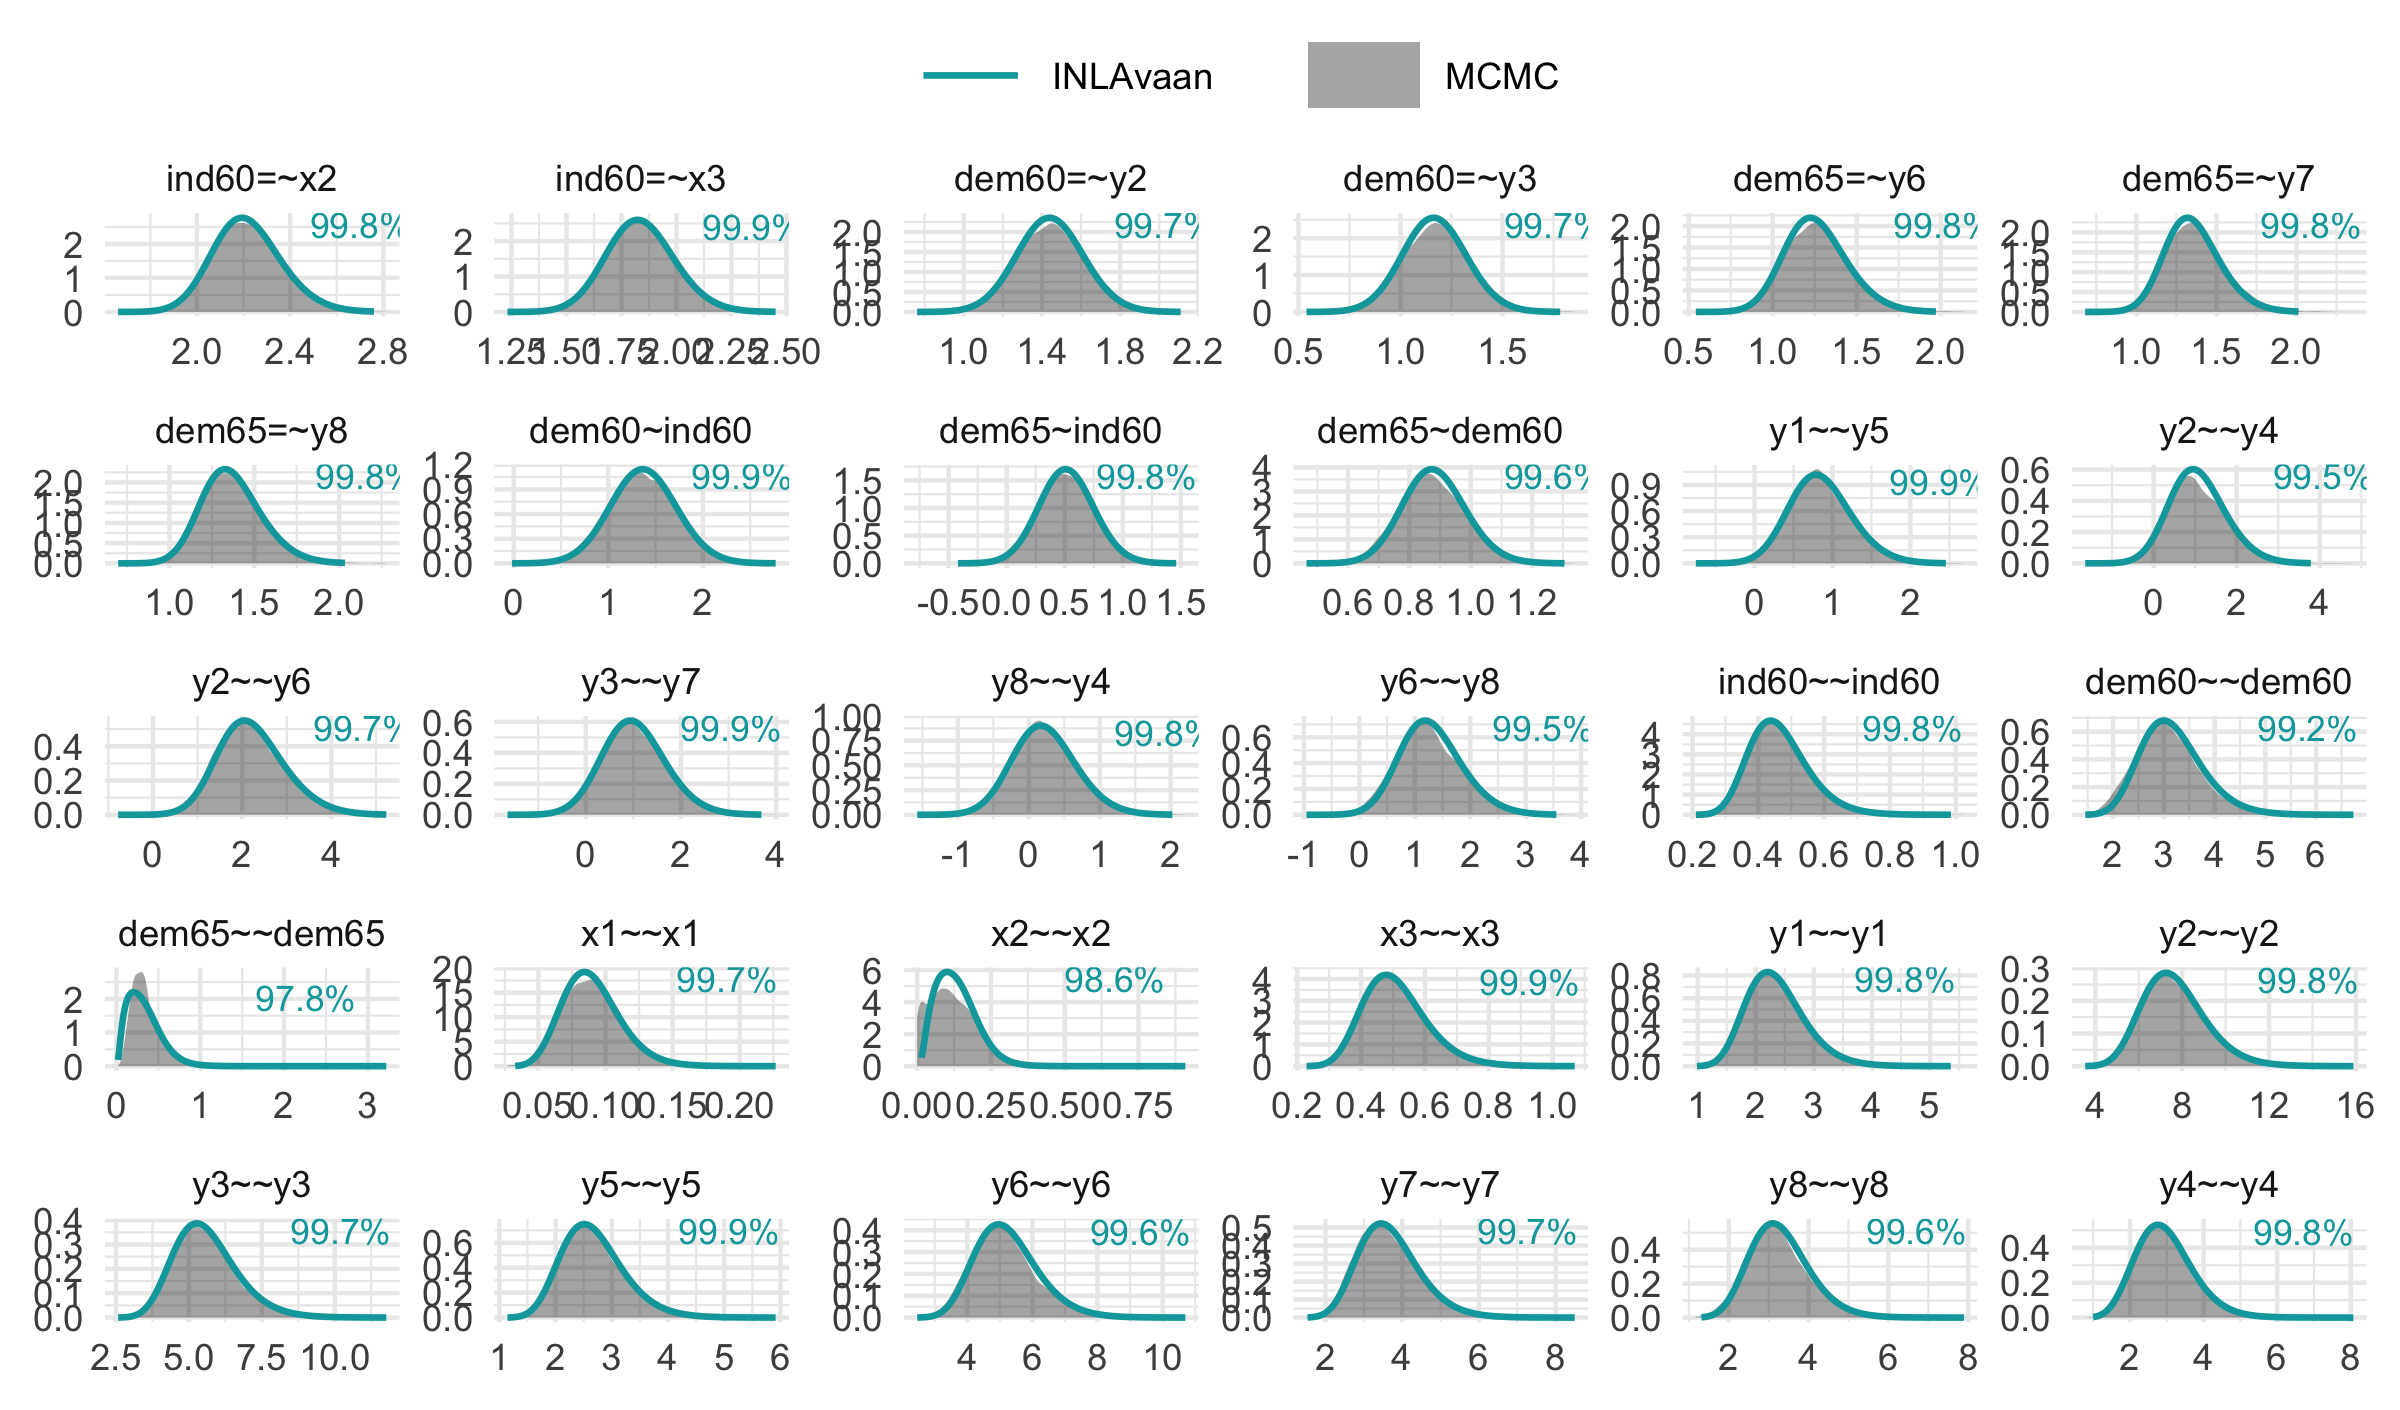
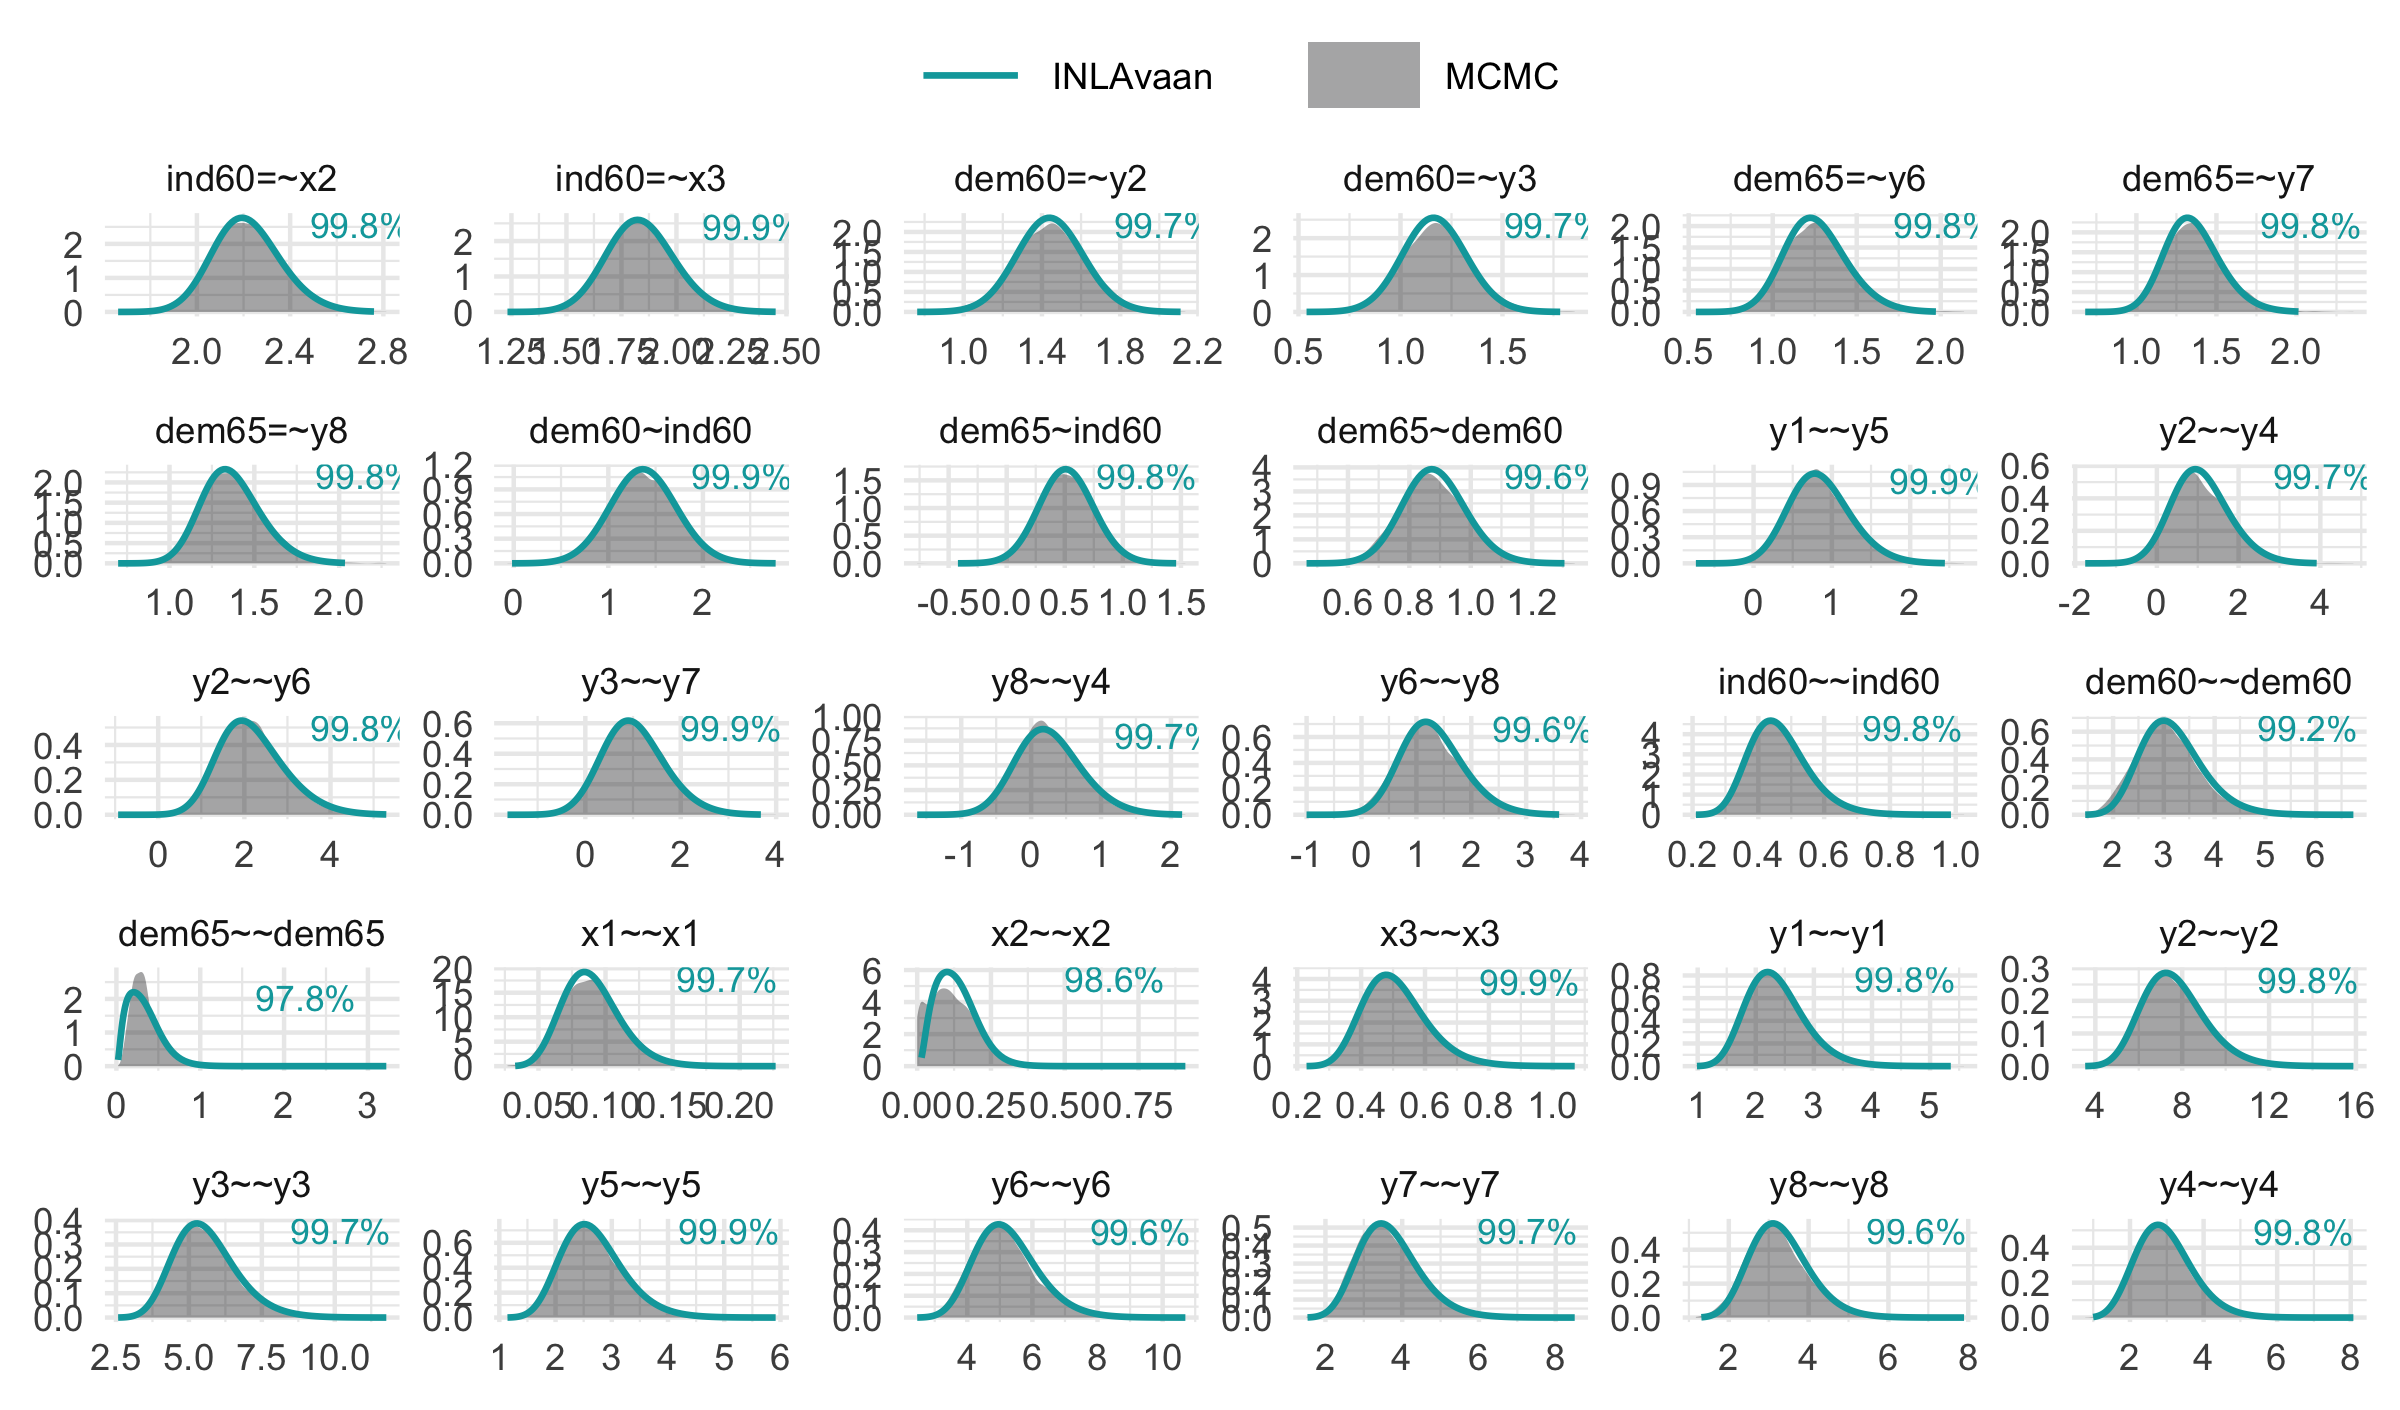
Update README

diff --git a/README.md b/README.md
@@ -74,21 +74,21 @@ utils::data("PoliticalDemocracy", package = "lavaan")
 
 fit <- asem(model = mod_poldem, data = PoliticalDemocracy)
 #> ℹ Mode finding and Hessian computation.
-#> ✔ Posterior mode and Hessian. [69ms]
+#> ✔ Posterior mode and Hessian. [79ms]
 #> 
 #> ℹ Performing VB correction.
-#> ✔ VB correction; mean |δ| = 0.154σ. [78ms]
+#> ✔ VB correction; mean |δ| = 0.154σ. [86ms]
 #> 
 #> ⠙ Fitting 0/30 skew-normal marginals.
-#> ✔ Fit 30/30 skew-normal marginals. [563ms]
+#> ✔ Fit 30/30 skew-normal marginals. [624ms]
 #> 
 #> ⠙ Posterior sampling and summarising.
-#> ✔ Summarise 1000 posterior draws. [297ms]
+#> ✔ Summarise 1000 posterior draws. [330ms]
 #> 
 #> ℹ Fit measures: PPP, DIC.
 
 summary(fit)
-#> INLAvaan 0.3.3 ended normally after 71 iterations
+#> INLAvaan 0.3.4 ended normally after 71 iterations
 #> 
 #>   Estimator                                      BAYES
 #>   Optimization method                           NLMINB
@@ -99,12 +99,12 @@ summary(fit)
 #> Model Test (User Model):
 #> 
 #>    Marginal log-likelihood                   -1644.364 
-#>    PPP (Chi-square)                              0.496 
+#>    PPP (Chi-square)                              0.479 
 #> 
 #> Information Criteria:
 #> 
-#>    Deviance (DIC)                             3173.511 
-#>    Effective parameters (pD)                    28.876 
+#>    Deviance (DIC)                             3173.529 
+#>    Effective parameters (pD)                    28.885 
 #> 
 #> Parameter Estimates:
 #> 
@@ -140,16 +140,16 @@ summary(fit)
 #> Covariances:
 #>                    Estimate       SD     2.5%    97.5%     NMAD    Prior       
 #>  .y1 ~~                                                                        
-#>    .y5                0.851    0.401    0.120    1.695    0.005       beta(1,1)
+#>    .y5                0.853    0.397    0.138    1.698    0.005       beta(1,1)
 #>  .y2 ~~                                                                        
-#>    .y4                1.068    0.679   -0.158    2.508    0.004       beta(1,1)
-#>    .y6                2.225    0.752    0.902    3.850    0.011       beta(1,1)
+#>    .y4                1.078    0.708   -0.190    2.590    0.004       beta(1,1)
+#>    .y6                2.182    0.778    0.864    3.905    0.011       beta(1,1)
 #>  .y3 ~~                                                                        
-#>    .y7                1.023    0.667   -0.207    2.413    0.005       beta(1,1)
+#>    .y7                1.024    0.664   -0.169    2.438    0.005       beta(1,1)
 #>  .y8 ~~                                                                        
-#>    .y4                0.224    0.450   -0.606    1.160    0.003       beta(1,1)
+#>    .y4                0.265    0.474   -0.582    1.278    0.003       beta(1,1)
 #>  .y6 ~~                                                                        
-#>    .y8                1.300    0.563    0.295    2.506    0.005       beta(1,1)
+#>    .y8                1.300    0.575    0.283    2.540    0.005       beta(1,1)
 #> 
 #> Variances:
 #>                    Estimate       SD     2.5%    97.5%     NMAD    Prior       
